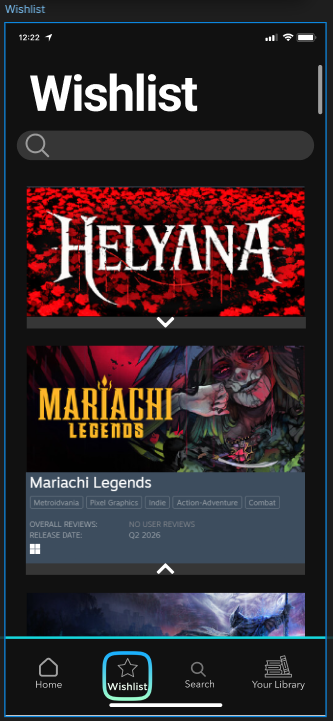
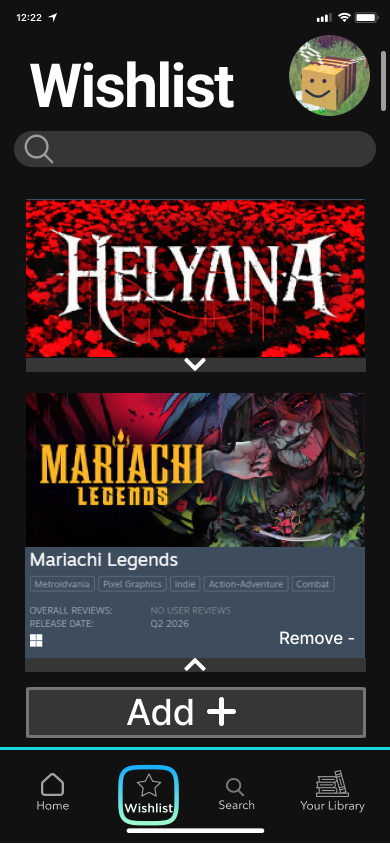
Update 2 files
- /docs/Wishlist.png
- /docs/3.visual_designs.md

diff --git a/docs/3.visual_designs.md b/docs/3.visual_designs.md
@@ -5,13 +5,18 @@
 <!-- In this section, your team should present the high definition mockups of the new feature you have designed. These mockups should be created using a design tool such as Figma, Sketch, or Adobe XD. There should be up to six screens of the new feature, showing different states or interactions. Each screen should be accompanied by a brief description of what it represents and how it fits into the overall user experience. -->
 
 ![Homepage](<Homepage.png>)
+This is the homepage, note it is selected from the bar at the bottom. It contains the pick for me button which causes a popup to show for that feature. It also contains a few categorys of games, such as currently playing and played. It has a scroll bar on the side that would let the user scroll downt to view other categorys such as recommended or friend activity.
 
 ![Profile](<Profile.png>)
+This is the profile page, where the user can view their profile: they can see their profile picture, username, game library, as well as some more recommendations based on their favourite (most played) genres. This page can be accessed by clicking on their profile picture in the top corners of the other screens, and helps give the app a personalised feel for the user.
 
 ![Search page](<Search_page.png>)
+This is the search page; it can be accessed via the options at the bottom of the page. Here the user can search for a game or another user to friend them. It also shows trending games to help give the user more options.
 
 ![Wishlist](<Wishlist.png>)
+This is the wishlist. It shows games the user has added to it and will prioritise showing the games that are on sale. The user also has the ability to view more information about the game, as well as the options to add or remove the games from the list.
 
 ![You should play (generated)](<You_Should_Play_generated.png>)
+
 
 ![You should play](<You_Should_Play.png>)
